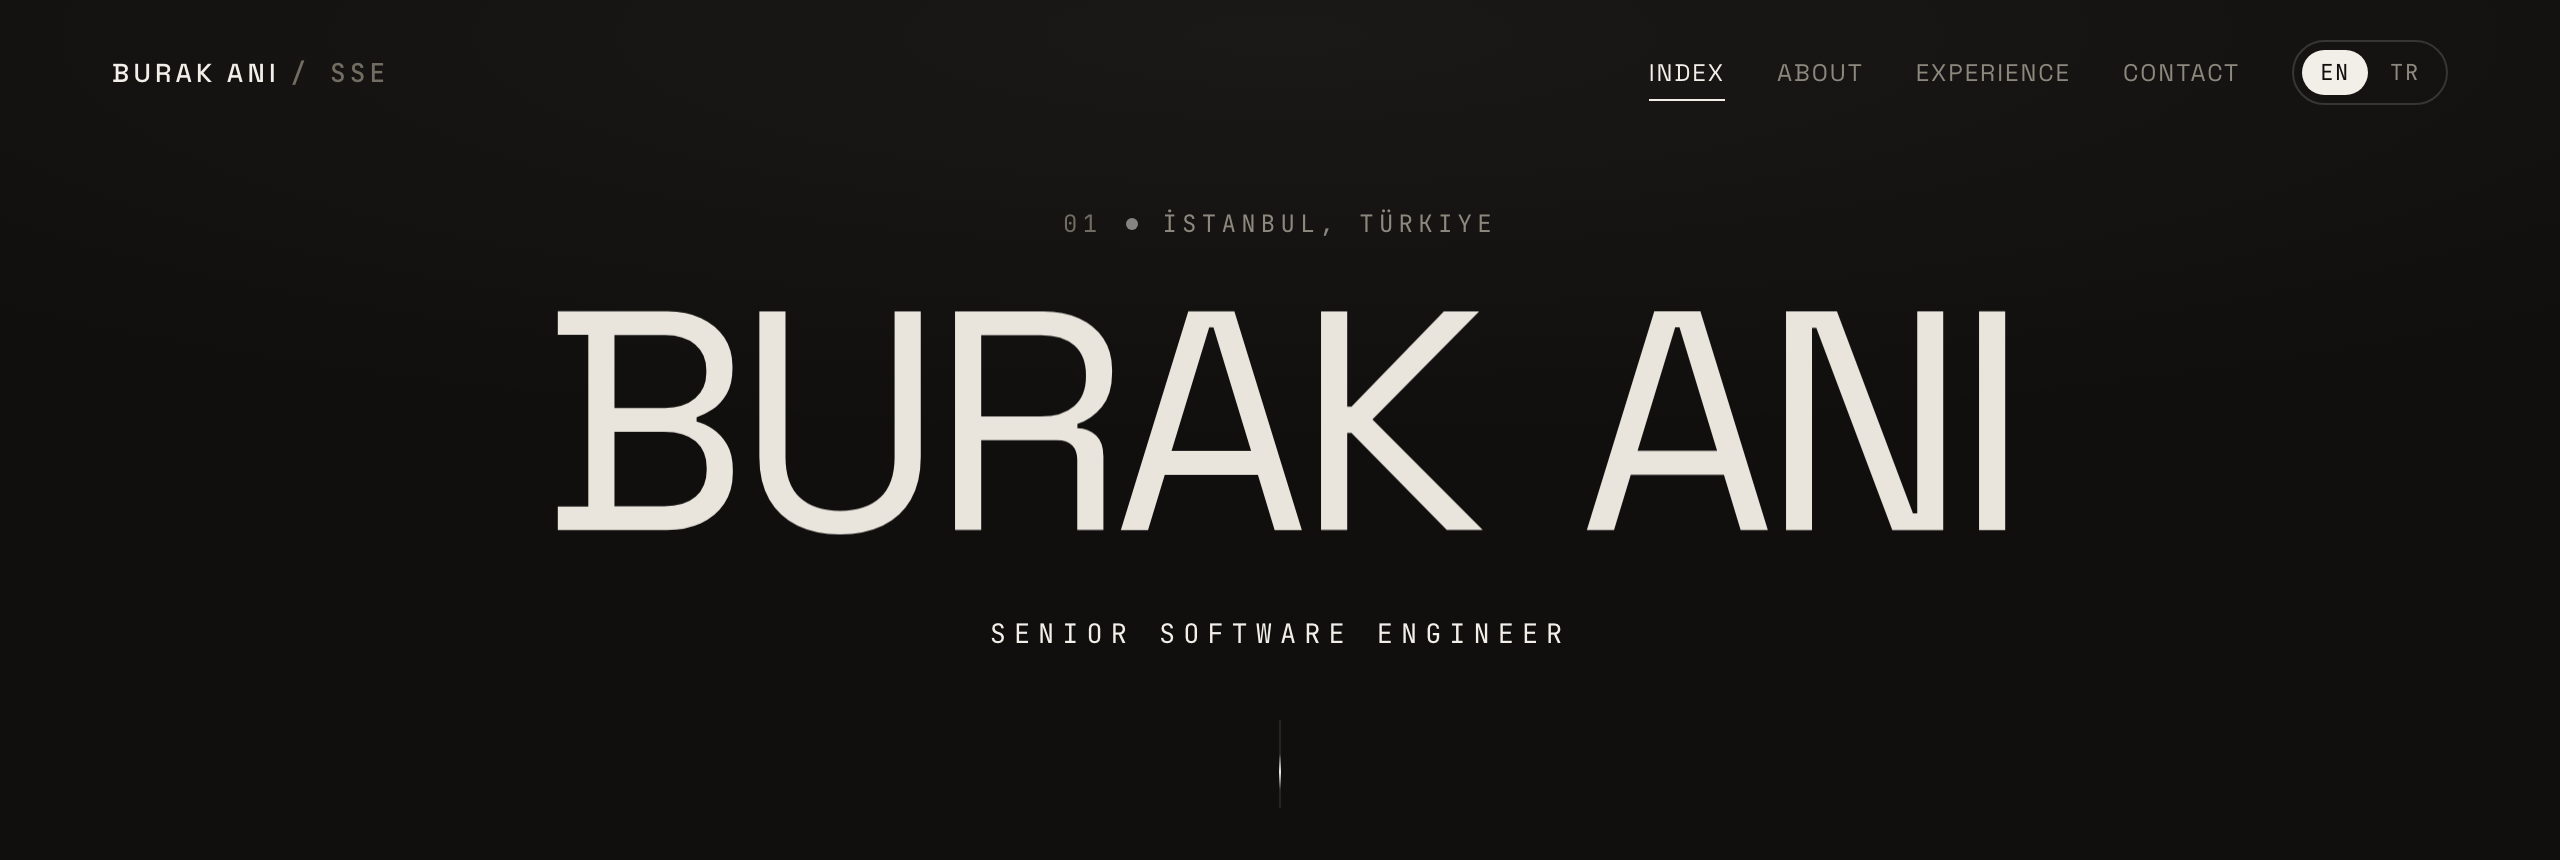
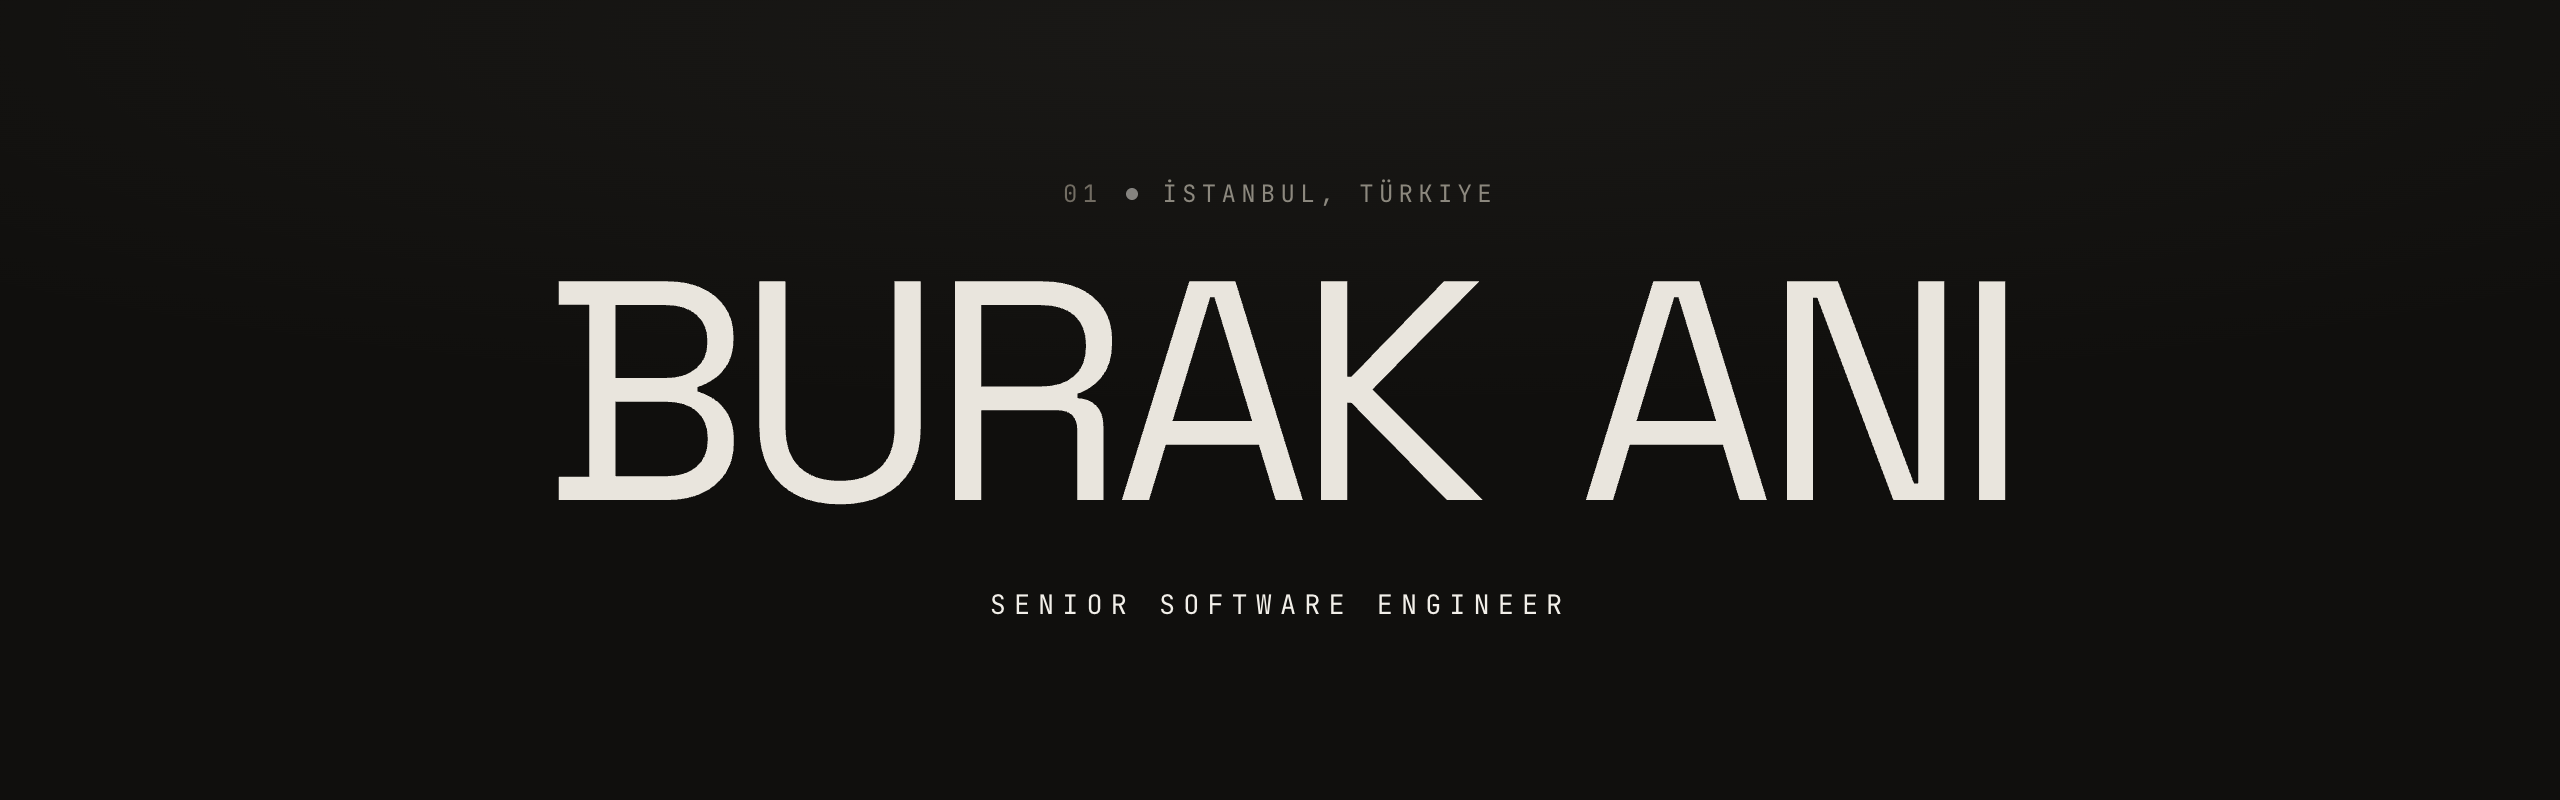
Lead profile with cursor-interaction hero GIF
Replace the static banner with a short recording of the
variable-font weight-spotlight interaction from burakani.dev,
and swap the banner for the nav-less version.

diff --git a/README.md b/README.md
@@ -1,5 +1,5 @@
 <p align="center">
-  <a href="https://burakani.dev"><img src="./banner.png" alt="Burak Anı — Senior Software Engineer · İstanbul, Türkiye" width="100%" /></a>
+  <a href="https://burakani.dev"><img src="./hero.gif" alt="Burak Anı — Senior Software Engineer · İstanbul, Türkiye" width="100%" /></a>
 </p>
 
 <p align="center">
